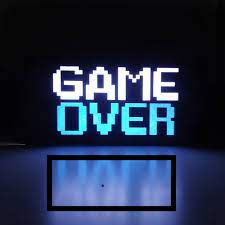
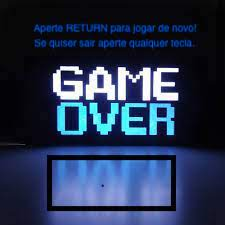
mais meteoros

Changed region(s): [[0.1244, 0.0933, 0.8711, 0.2178]]

diff --git a/game_screen.py b/game_screen.py
@@ -1,5 +1,5 @@
 import pygame
-from config import FPS, TELA_FINAL, WIDTH, HEIGHT, BLACK, YELLOW, RED, QUIT
+from config import FPS, GAME, TELA_FINAL, WIDTH, HEIGHT, BLACK, YELLOW, RED, QUIT
 from assets import load_assets, DESTROY_SOUND, BOOM_SOUND, BACKGROUND, SCORE_FONT
 from sprites import Ship, Meteor, Bullet, Explosion
 
@@ -22,8 +22,9 @@ def game_screen(window):
     # Criando o jogador
     player = Ship(groups, assets)
     all_sprites.add(player)
-    # Criando os meteoros
-    for i in range(8):
+    # Criando os meteoros\
+    n_meteoros= 4
+    for i in range(n_meteoros):
         meteor = Meteor(assets)
         all_sprites.add(meteor)
         all_meteors.add(meteor)
@@ -39,7 +40,8 @@ def game_screen(window):
 
     # ===== Loop principal =====
     pygame.mixer.music.play(loops=-1)
-    while state != DONE:
+    while state != DONE :
+
         clock.tick(FPS)
 
         # ----- Trata eventos
@@ -90,6 +92,15 @@ def game_screen(window):
                 score += 100
                 if score % 1000 == 0:
                     lives += 1
+
+                #AQUI
+                if score % 400 == 0:
+                    n_meteoros += 2
+                    for n in range(2):
+                        m = Meteor(assets)
+                        all_sprites.add(m)
+                        all_meteors.add(m)
+
 
             # Verifica se houve colisão entre nave e meteoro
             hits = pygame.sprite.spritecollide(player, all_meteors, True, pygame.sprite.collide_mask)

diff --git a/tela_final.py b/tela_final.py
@@ -1,8 +1,9 @@
 import pygame
 import random
 from os import path
-from assets import load_assets
-from config import BLACK, FPS, GAME, QUIT, TELA_FINAL
+from assets import load_assets, SCORE_FONT
+from config import BLACK, FPS, GAME, INIT, QUIT, TELA_FINAL, YELLOW, WIDTH
+
 
 
 def tela_final(screen, score):
@@ -27,20 +28,24 @@ def tela_final(screen, score):
                 state = QUIT
                 running = False
 
-            if event.type == pygame.KEYDOWN and event.key != pygame.K_SPACE:
+            if event.type == pygame.KEYDOWN and event.key != pygame.K_RETURN:
                 state = QUIT
                 running = False
 
-            if event.type == pygame.KEYDOWN and event.key == pygame.K_SPACE:
+            if event.type == pygame.KEYDOWN and event.key == pygame.K_RETURN:
                 state = GAME
-                running = True
+                running = False
+                
 
         # A cada loop, redesenha o fundo e os sprites
         screen.fill(BLACK)
         screen.blit(tela_final, tela_final_rect)
 
-#WIDTH = 480 # Largura da tela
-#HEIGHT = 600 
+        # Desenhando o score
+        text_surface = assets[SCORE_FONT].render("{:08d}".format(score), True, YELLOW)
+        text_rect = text_surface.get_rect()
+        text_rect.midtop = (WIDTH / 2,  480)
+        screen.blit(text_surface, text_rect)
 
 
         # Depois de desenhar tudo, inverte o display.
